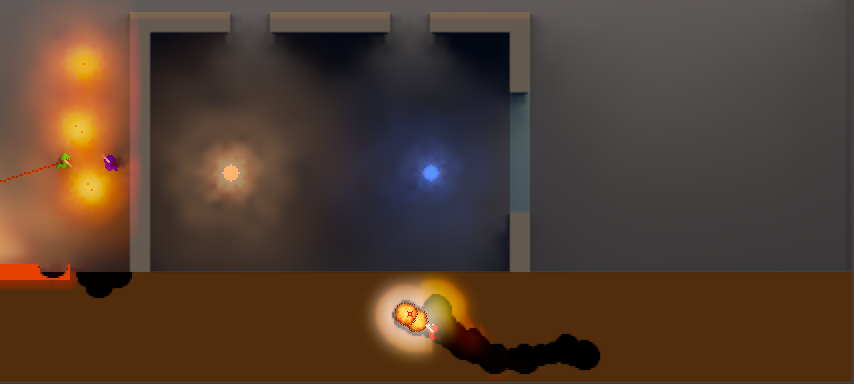
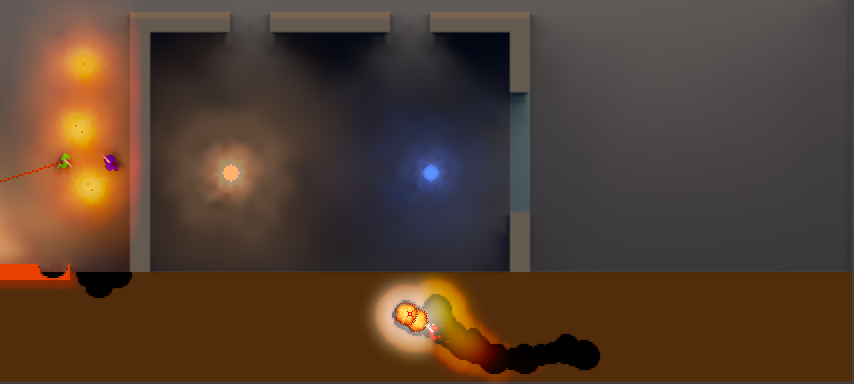
olr-render: worms throw only short shadows
Claude-Session: https://claude.ai/code/session_019821i4KFSbhZ4mHYULrhEV

Changed region(s): [[0.4871, 0.8125, 0.6089, 1.0], [0.1218, 0.3438, 0.1827, 0.4375], [0.0609, 0.4375, 0.0913, 0.5]]

diff --git a/crates/olr-render/tests/gpu.rs b/crates/olr-render/tests/gpu.rs
@@ -1083,7 +1083,8 @@ fn an_off_view_worm_still_shadows_the_view() {
     let bare = worm_frame(&gpu, &map, view, &lights, &[], |_| {});
     assert!(light_at(&gpu, &bare, 101, 20)[0] > 0.2, "the face is lit without the worm");
     let r = worm_frame(&gpu, &map, view, &lights, &[([94.0, 17.0, 4.0, 7.0], 1)], |_| {});
-    assert!((light_at(&gpu, &r, 101, 20)[0] - 0.1).abs() < 1e-3, "the worm off the view shadows it");
+    let (lit, shaded) = (light_at(&gpu, &bare, 101, 20)[0], light_at(&gpu, &r, 101, 20)[0]);
+    assert!(shaded < lit - 0.05, "the worm off the view shades it (a short shadow): {shaded} {lit}");
 }
 
 #[test]
@@ -1388,31 +1389,6 @@ fn a_flash_lights_its_surroundings_softly() {
             let v = light_at(&gpu, &r, x, y)[0];
             assert!((v - 0.1).abs() < 1e-3, "behind the wall ({x}, {y}): {v}");
         }
-    }
-}
-
-/// Plan 15c: a worm's shadow from a disc is soft, never a hard column.
-#[test]
-fn a_worm_casts_a_soft_shadow() {
-    let Some(gpu) = offscreen() else { return };
-    let map = room(100, 60, |x, _| x >= 60);
-    let view = View { x: 0.0, y: 0.0, w: 100.0, h: 60.0 };
-    let flash = [disc([30.5, 30.5], 4.0, 80.0)];
-    let r = worm_frame(&gpu, &map, view, &[], &[([40.0, 27.0, 4.0, 6.0], 1)], |l| {
-        l.emitters.extend_from_slice(&flash)
-    });
-    let face: Vec<f32> = (0..60).map(|y| light_at(&gpu, &r, 59, y)[0]).collect();
-    let (lo, at) =
-        face[10..50].iter().zip(10..).fold((f32::MAX, 0), |m, (&v, y)| if v < m.0 { (v, y) } else { m });
-    let hi = face[at - 10..=at + 10].iter().cloned().fold(0.0, f32::max);
-    let eps = 0.02 * (hi - lo);
-    assert!(hi - lo > 0.05, "a shadow at all: {face:?}");
-    for side in [-1i32, 1] {
-        let between = (1..=12)
-            .map(|k| face[(at as i32 + side * k) as usize])
-            .filter(|&v| v > lo + eps && v < hi - eps)
-            .count();
-        assert!(between >= 3, "side {side}: {between} penumbra pixels in {face:?}");
     }
 }
 
@@ -1930,4 +1906,64 @@ fn a_long_low_tunnel_takes_no_light_through_rock() {
         }
     }
     assert!(lit.is_empty(), "light in the tunnel from beyond the rock: {lit:?}");
+}
+
+/// The worm-shadow follow-up (2026-10-20, the user's playtest): a worm
+/// blocks light only within `olr_render::WORM_SHADOW` world pixels of it,
+/// so it throws no long shadow: a face 15 px behind it is lit as if it
+/// were not there.
+#[test]
+fn a_worm_throws_no_long_shadow() {
+    let Some(gpu) = offscreen() else { return };
+    let map = room(100, 60, |x, _| x >= 60);
+    let view = View { x: 0.0, y: 0.0, w: 100.0, h: 60.0 };
+    let flash = [disc([30.5, 30.5], 4.0, 80.0)];
+    let set = |l: &mut olr_look::LookFrame| l.emitters.extend_from_slice(&flash);
+    let bare = worm_frame(&gpu, &map, view, &[], &[], set);
+    let worm = worm_frame(&gpu, &map, view, &[], &[([40.0, 27.0, 4.0, 6.0], 1)], set);
+    for y in 20..40 {
+        assert_eq!(light_at(&gpu, &bare, 59, y), light_at(&gpu, &worm, 59, y), "the face at y {y}");
+    }
+    // Right behind the worm, a short shade.
+    let (b, w) = (light_at(&gpu, &bare, 46, 30)[0], light_at(&gpu, &worm, 46, 30)[0]);
+    assert!(w < b - 0.05, "shaded right behind it: {w} against {b}");
+    assert_eq!(light_at(&gpu, &bare, 54, 30), light_at(&gpu, &worm, 54, 30), "10 px behind: unchanged");
+}
+
+/// The worm-shadow follow-up: away from a worm the light is as without it,
+/// whether the worm stands over glowing sky or plain background (no pop at
+/// the sky's edge).
+#[test]
+fn a_worm_changes_no_light_away_from_it() {
+    let Some(gpu) = offscreen() else { return };
+    // A glowing sky over the top half, rock along the bottom.
+    let map = glowing_room(120, 60, |_, y| y >= 56, |_, y| y < 28);
+    let view = View { x: 0.0, y: 0.0, w: 120.0, h: 60.0 };
+    let sky = |l: &mut olr_look::LookFrame| {
+        l.groups[0] = olr_look::FrameGroup {
+            cast: [1.0; 3],
+            own_colour: false,
+            self_scale: 1.0,
+            reach: f32::INFINITY,
+            ..Default::default()
+        }
+    };
+    let bare = worm_frame(&gpu, &map, view, &[], &[], sky);
+    for body in [[60.0, 10.0, 4.0, 6.0], [60.0, 35.0, 4.0, 6.0]] {
+        let worm = worm_frame(&gpu, &map, view, &[], &[(body, 1)], sky);
+        let mut moved = Vec::new();
+        for y in (2..56).step_by(3) {
+            for x in (2..118).step_by(3) {
+                // More than 10 px from the worm's outline.
+                let (cx, cy) = (x as f32 + 0.5, y as f32 + 0.5);
+                let dx = (body[0] - cx).max(cx - body[0] - body[2]).max(0.0);
+                let dy = (body[1] - cy).max(cy - body[1] - body[3]).max(0.0);
+                let far = dx.hypot(dy) > 10.0;
+                if far && light_at(&gpu, &bare, x, y) != light_at(&gpu, &worm, x, y) {
+                    moved.push((x, y));
+                }
+            }
+        }
+        assert!(moved.is_empty(), "worm at {body:?} changed the light at {moved:?}");
+    }
 }

diff --git a/crates/olr-render/src/renderer/look.rs b/crates/olr-render/src/renderer/look.rs
@@ -16,7 +16,7 @@ const COMMON: &str = include_str!("../look/common.wgsl");
 /// [`COMMON`] after the Rust constants the shaders share.
 pub(super) fn common() -> String {
     format!(
-        "const LIGHT_PAD: f32 = {LIGHT_PAD}.0;\nconst MAX_SOAK: i32 = {};\nconst BLOOM_RADIUS: i32 = {BLOOM_RADIUS};\n{COMMON}",
+        "const LIGHT_PAD: f32 = {LIGHT_PAD}.0;\nconst MAX_SOAK: i32 = {};\nconst BLOOM_RADIUS: i32 = {BLOOM_RADIUS};\nconst WORM_SHADOW: f32 = {WORM_SHADOW:?};\n{COMMON}",
         olr_look::MAX_SOAK
     )
 }
@@ -64,6 +64,15 @@ pub(super) const LIGHT_FORMAT: wgpu::TextureFormat = wgpu::TextureFormat::Rgba16
 /// blur of up to 4 and the bloom ([`BLOOM_RADIUS`]) never see its edge, so
 /// the light never depends on the camera.
 pub(super) const LIGHT_PAD: u32 = olr_look::MAX_SOAK as u32 + 4 + BLOOM_RADIUS as u32;
+
+/// How far a worm's shadow reaches, world pixels (the worm-shadow
+/// follow-up, 2026-10-20, the user's playtest of the day Castle Strike: a
+/// worm blocking all light threw massive shadows outdoors). A ray is
+/// stopped by a worm only that near its probe; past it the worm is
+/// invisible to light, which shows what lies under it. The cascades'
+/// merging carries the shade a probe spacing or two further: no change
+/// more than 10 px from a worm (`a_worm_changes_no_light_away_from_it`).
+pub const WORM_SHADOW: f32 = 4.0;
 
 /// The bloom's reach, world pixels (plan 15c's glare): a Gaussian of a
 /// third of it each way.

diff --git a/crates/olr-render/src/lib.rs b/crates/olr-render/src/lib.rs
@@ -36,6 +36,6 @@ pub use offscreen::{
 };
 pub use renderer::{
     GI_CELL_BUDGET, GpuTimes, MAX_PROBE_PASSES, MAX_PROBE_TAPS, MIN_SCALE, Probe, RenderSettings, Renderer,
-    WORLD_FORMAT, gi_cell, gpu_times,
+    WORLD_FORMAT, WORM_SHADOW, gi_cell, gpu_times,
 };
 pub use upscale::{UpscaleFilter, dest_rect, dest_rect_in};

diff --git a/crates/olr-render/src/renderer.rs b/crates/olr-render/src/renderer.rs
@@ -17,6 +17,7 @@ mod regions;
 mod timing;
 
 pub use gi::{GI_CELL_BUDGET, gi_cell};
+pub use look::WORM_SHADOW;
 pub use probe::{MAX_PROBE_PASSES, MAX_PROBE_TAPS, Probe};
 pub use timing::{GpuTimes, gpu_times};
 

diff --git a/docs/porting/STATUS.md b/docs/porting/STATUS.md
@@ -3627,7 +3627,8 @@ Spec `docs/superpowers/specs/2026-10-19-worm-lighting-design.md`, plan
   `Shade::WORM`) replaces `solid_floor`; projectiles and bonuses keep the
   engine `FLOOR` (50 %) as self-light. The user saw it on a darkened look
   test level and kept 35 % (2026-10-19).
-- **Worms block light.** The scene lists each living worm's body (its skin
+- **Worms block light** (since 2026-10-20 only over 4 world pixels: see
+  "Glowing light (plan 15c)", short worm shadows). The scene lists each living worm's body (its skin
   frame) as an `Occluder` (`DrawList::occluders`, worm index + 1) in a lit
   match, whatever the view. The renderer draws them each lit frame into an
   `R8Uint` occluder map, one texel per world pixel over the light grid
@@ -3712,6 +3713,18 @@ Spec `docs/superpowers/specs/2026-10-19-glowing-light-design.md`, plan
   lifts it to 1 at most, no glare lands on it and it feeds none (a
   daylight sky lights the level without washing out; a flame's
   luminosity is its halo).
+- **Short worm shadows** (the user's playtest of the day Castle Strike,
+  2026-10-20: outdoors a worm's shadow was massive, popped at the edge of
+  the glowing sky and drifted after the worm stopped). A worm blocks a
+  ray only within `olr_render::WORM_SHADOW` (4) world pixels of the ray's
+  probe; past that it is invisible to light and the cell shows what lies
+  under it (its glow, its rock). The emission marks a mostly-worm cell 2
+  + its rock share, and a worm's pixels keep the glow under them. The
+  cascades' merging carries the shade a little further, nothing more than
+  10 px from a worm (`a_worm_throws_no_long_shadow`,
+  `a_worm_changes_no_light_away_from_it`); the lit side (plan 15b) and the
+  worm floor hold. This replaces plan 15b's "worms block light" for the
+  glow light.
 - **The idle bot** (`Personality::Idle`): presses nothing, not even to
   respawn (the server's `MaxRespawnTime` brings it back); online wire
   index 2.

diff --git a/crates/olr-render/CLAUDE.md b/crates/olr-render/CLAUDE.md
@@ -68,12 +68,16 @@ on screen or offscreen.
     `R8Uint` occluder map, one texel per world pixel over the light grid
     (`LookGlobals.occluders`: origin and size), each opaque texel the worm's
     index + 1; cleared every lit frame. `worm_in` (`common.wgsl`) reads it.
-    The glow light's emission treats a worm texel as solid, except in a
-    cell a disc lights (a muzzle flash inside its worm)
+    The glow light's emission marks a mostly-worm cell (2 + its rock
+    share; not in a cell a disc lights, a muzzle flash inside its worm),
+    keeping the glow under it; the cascades let a worm stop a ray only
+    within `WORM_SHADOW` (4) world pixels of its probe, so a worm throws a
+    short shadow and nothing more than 10 px from it changes (the user's
+    playtest, 2026-10-20; `a_worm_throws_no_long_shadow`,
+    `a_worm_changes_no_light_away_from_it`)
     (`a_worm_shadows_the_wall_behind_it`, `a_light_inside_a_worm_ignores_it`,
     `overlapping_worms_block_each_others_lights`,
-    `an_off_view_worm_still_shadows_the_view`, `a_worm_blocks_glow_light`,
-    `a_worm_casts_a_soft_shadow`).
+    `an_off_view_worm_still_shadows_the_view`, `a_worm_blocks_glow_light`).
   - **Glow light** (`gi.rs`, `gi_*.wgsl`, Task 12; plan 15c): radiance
     cascades over the whole level, fixed to the world (never
     camera-dependent): play's discs (`gi_dynamic.wgsl`: the first
